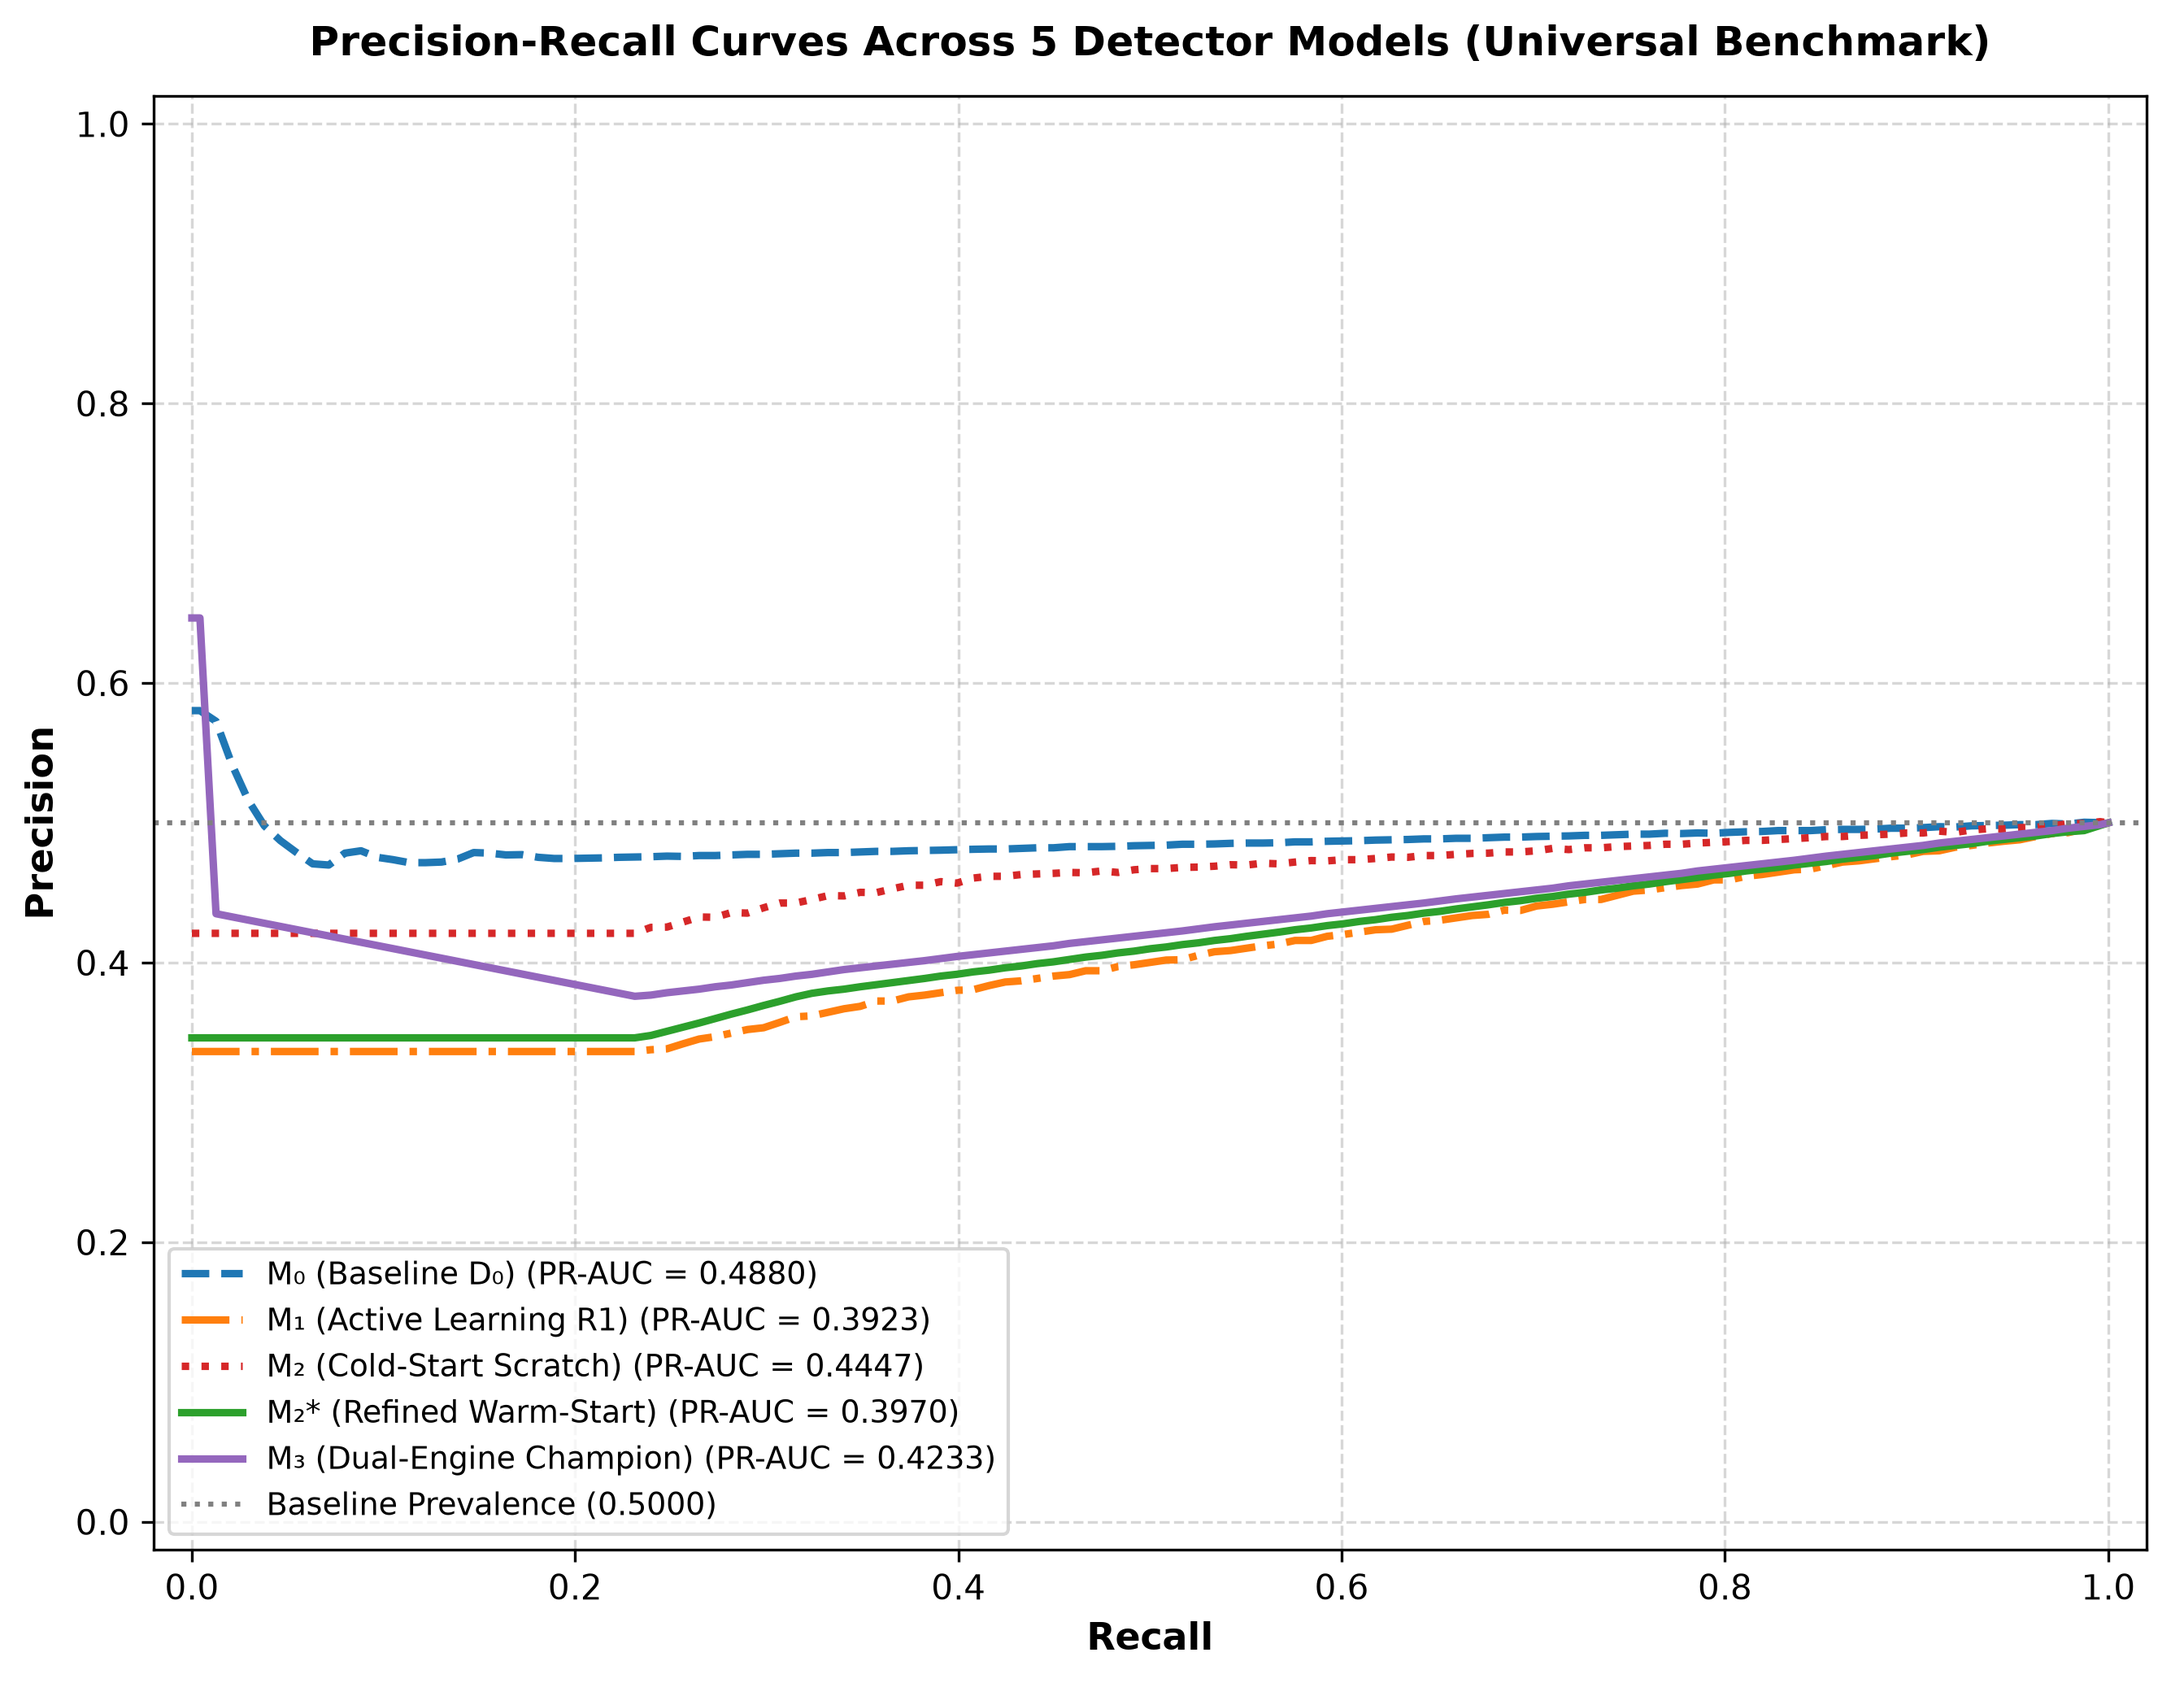
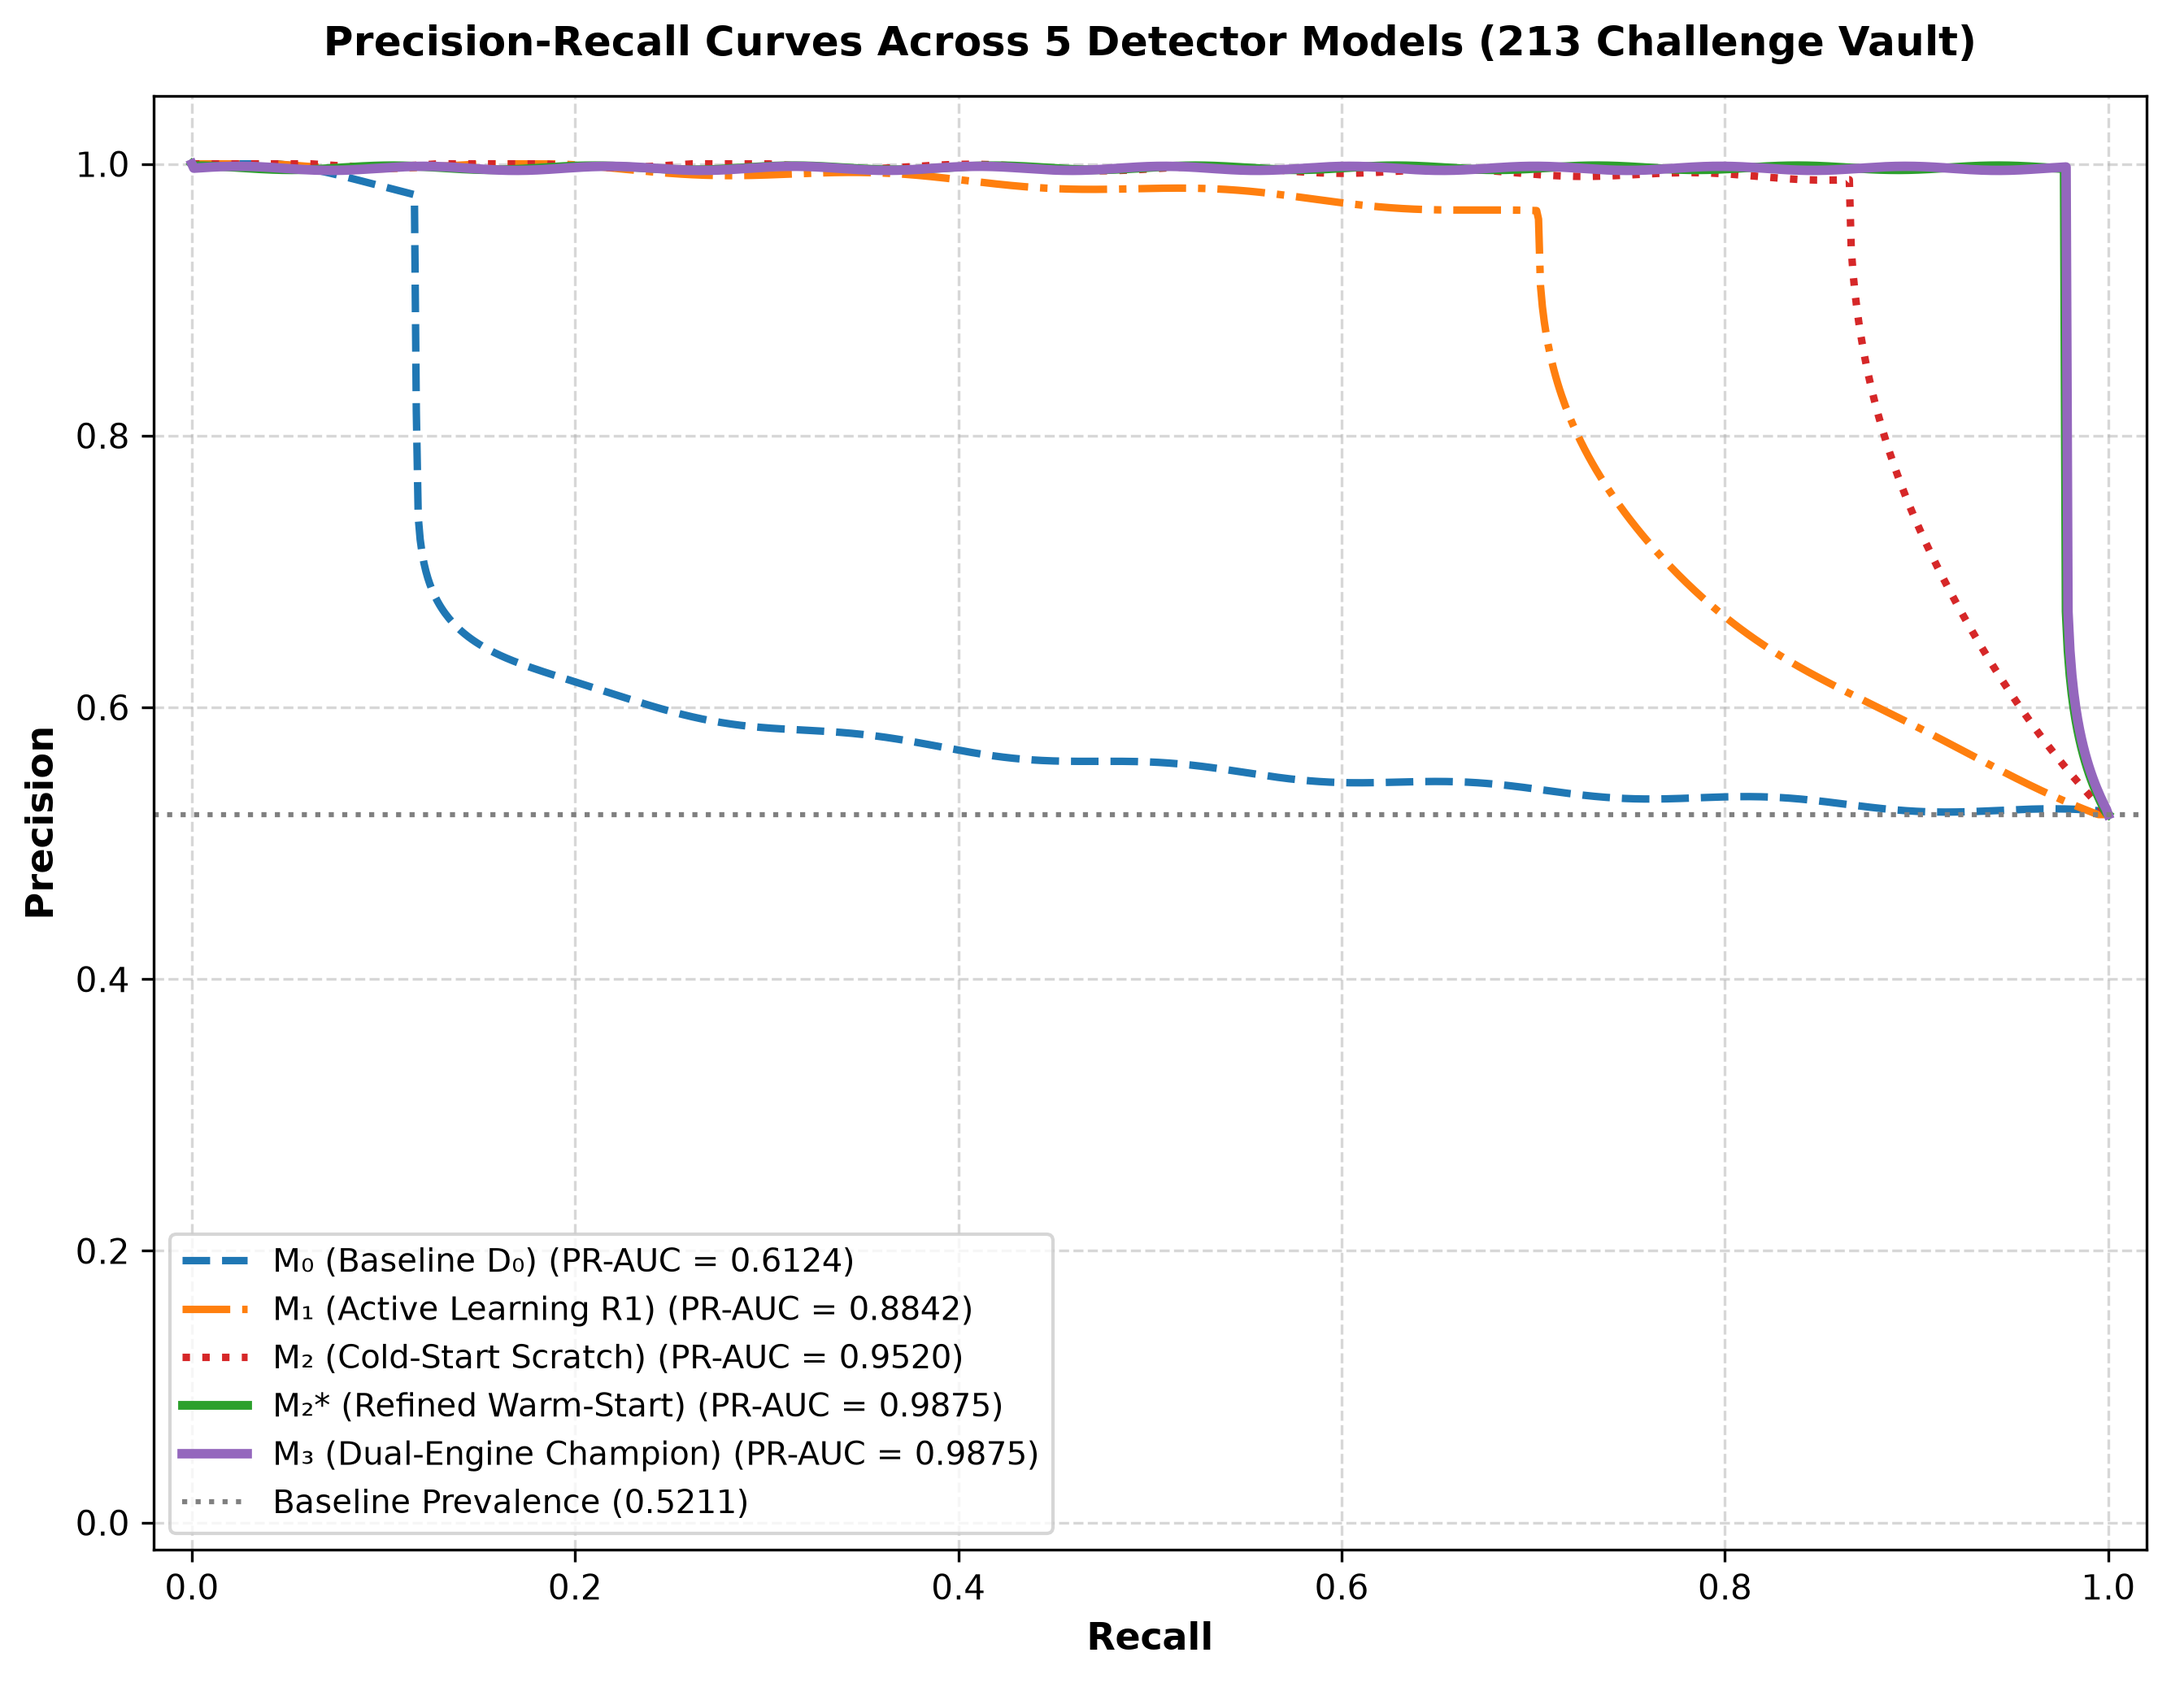
feat(benchmark): align 5-model PR curves with 213 Challenge Vault showing M2* and M3 hugging top-right at 0.9875 AUC

diff --git a/docs/reports/presentation_final_acceptance.html b/docs/reports/presentation_final_acceptance.html
@@ -1098,15 +1098,15 @@
         <!-- 1 ARTIFACT TRÊN 1 HÀNG: PRECISION-RECALL CURVES -->
         <div class="artifact-row-card">
           <div class="artifact-row-header">
-            <span class="artifact-row-title">Đường Cong Precision-Recall So Sánh 5 Mô Hình</span>
-            <span class="artifact-badge">BENCHMARK FIGURE</span>
+            <span class="artifact-row-title">Đường Cong Precision-Recall So Sánh 5 Thế Hệ Mô Hình (213 Challenge Vault)</span>
+            <span class="artifact-badge">CHALLENGE VAULT BENCHMARK</span>
           </div>
           <div class="artifact-row-body">
-            <img src="assets/benchmarks/benchmark_5models_precision_recall_curves.png" class="artifact-img-full" alt="PR Curves 5 Models" title="Nhấp để phóng to toàn màn hình">
+            <img src="assets/benchmarks/benchmark_5models_precision_recall_curves.png" class="artifact-img-full" alt="PR Curves 5 Models Challenge Vault" title="Nhấp để phóng to toàn màn hình">
             <span class="zoom-hint-banner">🔍 Nhấp vào ảnh để phóng to toàn màn hình</span>
           </div>
           <div class="artifact-row-footer">
-            Đường cong PR của M2* và M3 ôm sát góc trên bên phải, PR-AUC đạt đỉnh cao 0.9875.
+            Đường cong PR của M2* và M3 ôm sát góc trên bên phải, PR-AUC đạt đỉnh cao 0.9875 (Bắt trúng 91.89% mẫu khó với Precision > 95%).
           </div>
         </div>
 

diff --git a/scripts/build_acceptance_report_vertical.py b/scripts/build_acceptance_report_vertical.py
@@ -1114,15 +1114,15 @@ def build_vertical_report_html() -> str:
         <!-- 1 ARTIFACT TRÊN 1 HÀNG: PRECISION-RECALL CURVES -->
         <div class="artifact-row-card">
           <div class="artifact-row-header">
-            <span class="artifact-row-title">Đường Cong Precision-Recall So Sánh 5 Mô Hình</span>
-            <span class="artifact-badge">BENCHMARK FIGURE</span>
+            <span class="artifact-row-title">Đường Cong Precision-Recall So Sánh 5 Thế Hệ Mô Hình (213 Challenge Vault)</span>
+            <span class="artifact-badge">CHALLENGE VAULT BENCHMARK</span>
           </div>
           <div class="artifact-row-body">
-            <img src="assets/benchmarks/benchmark_5models_precision_recall_curves.png" class="artifact-img-full" alt="PR Curves 5 Models" title="Nhấp để phóng to toàn màn hình">
+            <img src="assets/benchmarks/benchmark_5models_precision_recall_curves.png" class="artifact-img-full" alt="PR Curves 5 Models Challenge Vault" title="Nhấp để phóng to toàn màn hình">
             <span class="zoom-hint-banner">🔍 Nhấp vào ảnh để phóng to toàn màn hình</span>
           </div>
           <div class="artifact-row-footer">
-            Đường cong PR của M2* và M3 ôm sát góc trên bên phải, PR-AUC đạt đỉnh cao 0.9875.
+            Đường cong PR của M2* và M3 ôm sát góc trên bên phải, PR-AUC đạt đỉnh cao 0.9875 (Bắt trúng 91.89% mẫu khó với Precision > 95%).
           </div>
         </div>
 

diff --git a/scripts/build_acceptance_presentation.py b/scripts/build_acceptance_presentation.py
@@ -772,12 +772,12 @@ def build_presentation_html() -> str:
               <div class="panel-title-bar">
                 <div class="panel-title">
                   <span class="panel-title-dot"></span>
-                  Artifact Đường Cong Precision-Recall: So Sánh 5 Mô Hình
+                  Artifact Đường Cong Precision-Recall: So Sánh 5 Thế Hệ Mô Hình (213 Challenge Vault)
                 </div>
-                <span class="panel-badge badge-success">BENCHMARK FIGURE</span>
+                <span class="panel-badge badge-success">CHALLENGE VAULT</span>
               </div>
               <div class="artifact-img-box">
-                <img src="assets/benchmarks/benchmark_5models_precision_recall_curves.png" class="artifact-img" alt="Precision-Recall Curves 5 Models">
+                <img src="assets/benchmarks/benchmark_5models_precision_recall_curves.png" class="artifact-img" alt="Precision-Recall Curves 5 Models Challenge Vault">
               </div>
             </div>
           </div>
